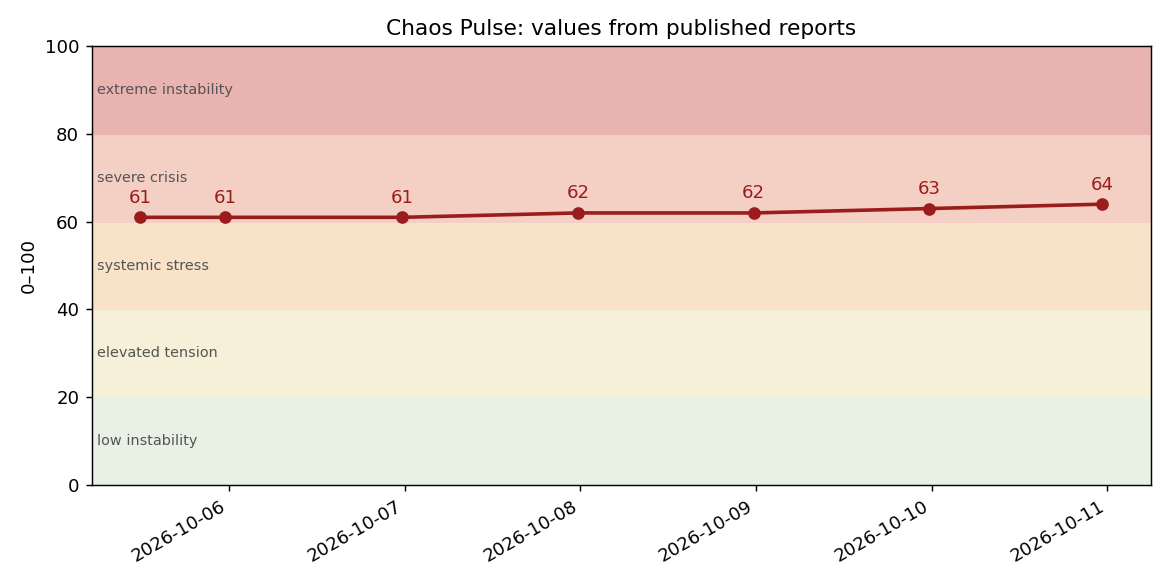
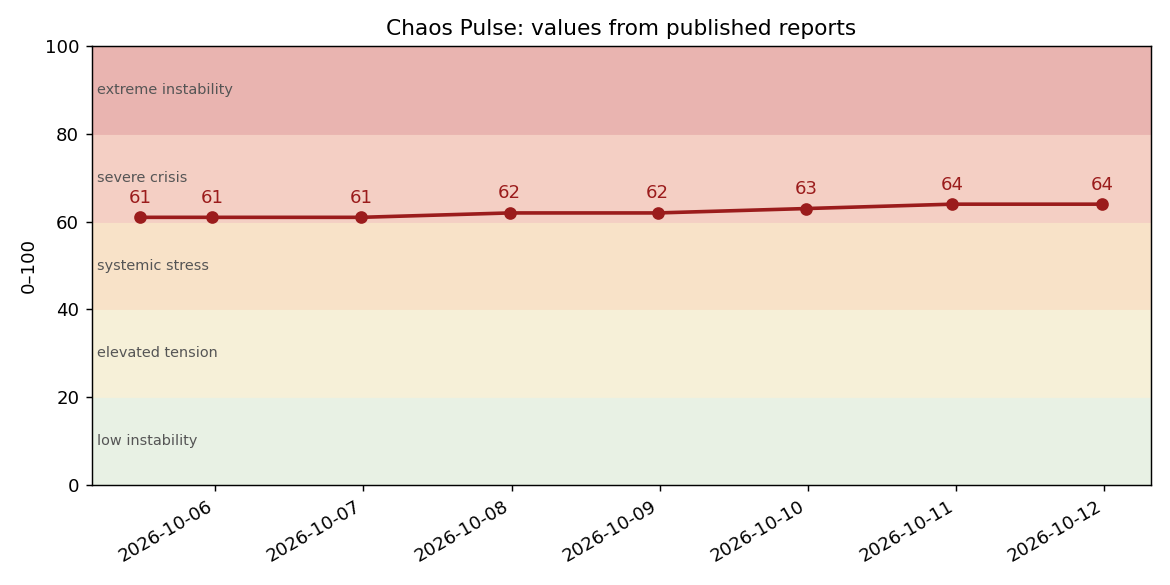
daily 2026-10-11: 64

diff --git a/data/reports/ru/2026-10-11-daily.md b/data/reports/ru/2026-10-11-daily.md
@@ -1,0 +1,87 @@
+---
+title: Пульс хаоса 64/100: ежедневный отчёт, 11 октября 2026
+date: 2026-10-11
+kind: daily
+summary: «Пульс хаоса» держится на 64/100, но механизмы сдерживания слабеют. Объявленное Трампом «энергетическое перемирие» России и Украины Москва не подтвердила, а через несколько часов Россия ударила по электростанциям в Харькове и Киеве. Иран назвал ответ США по Ормузу недостаточным и сообщил, что больше не отвечает. Удар по аэропорту Эр-Рияда 10 октября убил 12 человек и ранил 309; остановлен третий дата-центр Яндекса.
+---
+**ПУЛЬС ХАОСА: 64/100 — тяжёлый кризис**
+Изменение: 0 к предыдущему отчёту (недельный, 10 октября, 23:20 UTC); +3 за неделю (5 октября — 61).
+Направление: в целом без существенных изменений; внутри — ухудшение в сдерживании и во внутренней устойчивости. Перемирия нет.
+Уверенность: средняя. Диапазон неопределённости 59–69; самые широкие компоненты — экономика (44–60) и энергетика (68–77).
+Почему: главное событие дня — заявление президента Трампа, что Россия и Украина договорились об «энергетическом перемирии». Киев сказал, что узнал об этом из новостей и будет соблюдать при взаимности; Москва не подтвердила, а через несколько часов Россия ударила по ТЭЦ-5 в Харькове и энергообъекту в Киеве ([ABC News, 11 октября](https://abcnews.com/International/russia-strikes-power-plant-ukraine-after-trump-announces/story?id=137178264); [Kyiv Independent, 11 октября](https://kyivindependent.com/russia-struck-kharkivs-power-plant-shortly-after-trump-announced-energy-ceasefire/)). Секретарь Высшего совета нацбезопасности Ирана назвал ответ США об открытии Ормуза «недостаточным» и сказал, что Иран «больше не в процессе ответа» ([Reuters через Internazionale, 11 октября](https://www.internazionale.it/ultime-notizie-reuters/2026/10/11/iran-says-us-response-to-its-proposal-to-reopen-hormuz-was-insufficient)). Удар по аэропорту Эр-Рияда 10 октября стал самым смертоносным в арабских странах Залива с начала войны с Ираном: 12 погибших, 309 раненых. Остановлен третий дата-центр Яндекса. Сдерживание +1, внутренняя устойчивость +1; расчёт даёт 64,0.
+
+Баллы — авторская оценка относительно фиксированных ориентиров (методика v1, без изменений); у фактов ниже указаны источники. Проверки: ежедневный отчёт в 23:15 UTC (пн–сб), недельный — в воскресенье по времени Бангкока, плюс ежечасные веб-мониторы. Это не непрерывное наблюдение. Это аналитический индекс, а не вероятность войны и не доказательство какой-либо координации.
+
+| Компонент (вес) | Балл | Диапазон | Изменение | Ключевое основание |
+|---|---|---|---|---|
+| Военная эскалация (30%) | 73 | 69–77 | 0 | Удар по аэропорту Эр-Рияда уже учтён 10 октября (+1). Новое — масштаб: 12 погибших и 309 раненых по данным гражданской авиации КСА (GACA) ([Arab News, 11 октября](https://www.arabnews.com/saudi-arabia/riyadh-airport-attack-killed-12-people-and-wounded-over-300-more-says-saudi-civil-aviation-agency-3005640)), самый смертоносный удар в арабских странах Залива с начала войны с Ираном (AP); 11 октября снаряд снова попал в тот же терминал ([AP через Yahoo, 11 октября](https://www.yahoo.com/news/world/articles/missile-attack-airport-saudi-arabias-072026942.html)). Трамп: США «могут» присоединиться к ударам по хуситам; среди погибших — гражданин США. Центральное командование США: американский истребитель обездвижил сухогруз Ocean Molica в Оманском заливе при попытке прорвать блокаду Ирана (10 октября). Балл не меняю: это развитие уже учтённых событий; следующий шаг вверх — реальные удары США. |
+| Энергетика и критические поставки (25%) | 73 | 68–77 | 0 | Ормуз: предупреждение UKMTO 164-26 (11 октября) — исходящий танкер поражён снарядом, экипаж цел; ещё один танкер поражён часами раньше ([Reuters через GMA, 11 октября](https://www.gmanetwork.com/news/topstories/world/1005493/tanker-struck-by-projectile-in-strait-of-hormuz-fire-reported-ukmto-says/story); [Shafaq, 11 октября](https://shafaq.com/en/Middle-East/Unknown-projectile-hits-tanker-in-Strait-of-Hormuz)). Украина: удары по электростанциям Харькова и Киева, аварийные отключения в четырёх районах Киева ([Укринформ, 11 октября](https://www.ukrinform.net/rubric-ato/4173291-russian-forces-attack-energy-facility-in-kyiv-emergency-power-cuts-hit-four-districts.html)). Вниз: ураган «Исайяс» остановил до 63–72% добычи нефти в Мексиканском заливе, но крупные НПЗ не пострадали, а США одобрили экстренный обмен нефти из резерва. Итог — без изменения. |
+| Экономическая и финансовая устойчивость (20%) | 52 | 44–60 | 0 | Новых оснований нет. Brent закрыл неделю около $104, примерно +2% (Trading Economics, котировка CFD); UBS поднял прогноз Brent на декабрь до $100 ([exchangerates.org.uk, 11 октября](https://www.exchangerates.org.uk/news/47412/2026-10-11-brent-and-wti-crude-oil-price-forecasts-raised-as-supply-risks-persist.html)). Ждём инфляцию в США (14 октября) и доклад МВФ WEO. |
+| Внутренняя и институциональная устойчивость (15%) | 49 | 44–54 | +1 | Новое последствие: Яндекс сообщил, что его дата-центр во Владимире «полностью остановлен» после повреждения инфраструктуры атакой дронов ([Reuters через WTAQ, 11 октября](https://wtaq.com/2026/10/11/russias-yandex-says-data-centre-in-vladimir-area-shut-down-after-drone-attack/)); Yandex Cloud в «аварийном режиме» и советует клиентам задействовать планы аварийного восстановления ([3DNews, 11 октября](https://3dnews.ru/1149763/datatsentr-yandeksa-vo-vladimire-polnostyu-ostanovil-rabotu-posle-ataki-bpla)); сбои такси, платежей и музыки по России и в некоторых соседних странах ([Kyiv Independent, 11 октября](https://kyivindependent.com/third-yandex-data-center-in-russia-shut-down-following-reported-drone-attack/)). Это уже сбой массовых гражданских сервисов, а не одного объекта. Киев — на аварийных отключениях; главный аэропорт Эр-Рияда закрыт второй день. |
+| Механизмы сдерживания (10%; выше = слабее) | 61 | 56–67 | +1 | Слабее: «энергетическое перемирие» объявил только Трамп; Киев согласился условно, Москва к моменту отчёта не комментировала, удары по энергосистеме Украины продолжились через несколько часов ([BBC, 11 октября](https://www.bbc.co.uk/news/articles/c6pvg4jyz1m0o)). Иран перестал отвечать США и, по AP, предупредил об ударах по региональным дата-центрам и кабелям, если бои усилятся ([AP через US News, 11 октября](https://www.usnews.com/news/world/articles/2026-10-11/iran-calls-latest-us-response-to-proposal-insufficient-and-other-mideast-developments)). Сильнее: хуситы заявили о готовности к взаимным мерам, чтобы вывести аэропорты и порты из боёв ([CGTN, 11 октября](https://news.cgtn.com/news/2026-10-11/news-1R91QtVGJlm/p.html)); по сообщению New York Times (через [РБК-Украина](https://newsukraine.rbc.ua/news/us-offers-russia-frozen-assets-lukoil-deal-1791710888.html)), посланники США предлагали России экономические стимулы за ограниченное перемирие. |
+
+ПХ = 0,30×73 + 0,25×73 + 0,20×52 + 0,15×49 + 0,10×61 = 21,9 + 18,25 + 10,4 + 7,35 + 6,1 = 64,0 → **64**.
+Диапазон неопределённости 59–69: 0,30×69 + 0,25×68 + 0,20×44 + 0,15×44 + 0,10×56 = 58,7 → 59; 0,30×77 + 0,25×77 + 0,20×60 + 0,15×54 + 0,10×67 = 69,15 → 69.
+
+**Что опустило бы индекс (чек-лист):**
+- Военная ↓ при сделке США–Иран или перемирии в Йемене: **нет**. Иран прекратил обмен ответами; силы коалиции и хуситы продолжают бить по аэропортам друг друга.
+- Энергетика ↓, если Ормуз реально откроется и удары по энергетике России и Украины прекратятся: **нет**. Перемирие Москва не подтвердила, и оно нарушено в тот же день; поражены новые танкеры.
+- Экономика ↓, если WEO МВФ не покажет распространения: **ждём** (12–18 октября).
+- Институты ↓, если сервисы Яндекса и энергия Киева восстановятся: **нет**, оба в аварийном режиме.
+- Сдерживание ↓, если Кремль подтвердит энергоперемирие и удары прекратятся: **нет на момент отчёта**.
+
+## Сигналы
+Сбор 11 октября, 22:30 UTC: 85 показателей, 3 аномалии.
+- **GDELT «чрезвычайное положение и комендантский час»: ×6,75** (0,716% новостей против 0,106%), пятый день роста (×2,1 → 3,6 → 5,35 → 5,88 → 6,75). **«Отключения электричества» ×5,38**, **«эвакуации» ×3,21**. Машинная разметка внимания медиа; совпадает с Киевом, Эр-Риядом, Йеменом и ураганом во Флориде. Питает институты и энергетику; сам по себе балл не двигает.
+- **Официальная статус-страница Yandex Cloud:** два открытых инцидента — «недоступность зон» (22 ч) и нарушение электропитания в одной зоне доступности (96 ч). Независимое свидетельство, что сбой длится, а не устранён.
+- **Заявленные удары по нефтяным объектам России (заявления в Telegram):** 8 объектов за 7 дней при норме 6,6; 3 — 10 октября при норме 1,5. Сделает ли Украина паузу после заявления о перемирии, станет видно через день-два. Постов о дата-центрах 11 октября — 33 при норме 0–2.
+- **Киев (IODA):** 101% семидневной нормы 11 октября; генераторы и батареи скрывают отключения, провала сети не видно.
+- **Telegram:** доля постов об энергетике выше нормы в официальных иранских каналах (15% против 8%) и в медиа «оси» (10% против 5%) — совпадает с угрозами Ирана энергетике региона. Базис пока всего 6 дней.
+- **UKMTO:** номер предупреждения 164-26 на 11 октября; с 1 октября ≈1,7 выпуска в день против 0,72 раньше. Это счёт всех выпусков UKMTO, а не только атак в Ормузе.
+- IMF PortWatch по-прежнему заканчивается 4 октября; по движению через Ормуз отчёт опирается на Kpler.
+Чего сигналы не доказывают: GDELT и Википедия меряют внимание, а не решения; заявления в Telegram — не подтверждённые удары; IODA видит сети, а не людей.
+
+## 1. Главный вывод
+Индекс держится на 64, но под ровным числом слабеют тормоза. Попытка США остановить энергетическую войну декларацией провалилась в тот же день: Москва промолчала и ударила по электростанциям Харькова и Киева. Иран вышел из обмена с Вашингтоном по Ормузу и пригрозил расширить список целей до дата-центров и кабелей. Йеменский фронт стал смертоноснее: худший удар по стране Залива за всю войну, среди погибших американец — у Вашингтона появилась прямая причина вмешаться. В России крупнейшая технологическая компания потеряла три дата-центра за четыре дня.
+
+## 2. Значимые новые события
+- **«Энергетическое перемирие».** Трамп в Truth Social (11 октября): «С этого момента в войне между Россией и Украиной действует ЭНЕРГЕТИЧЕСКОЕ ПЕРЕМИРИЕ. Обе стороны согласились». Зеленский сказал Axios, что для него это «новость»; Украина готова не бить по энергетике России, если Россия сделает то же ([BBC, 11 октября](https://www.bbc.co.uk/news/articles/c6pvg4jyz1m0o)). Кремль к моменту отчёта не комментировал. После поста украинские официальные лица сообщили минимум о двух попаданиях по харьковской ТЭЦ-5 и пожаре, ударе дрона по энергообъекту Киева и аварийных отключениях ([ABC News](https://abcnews.com/International/russia-strikes-power-plant-ukraine-after-trump-announces/story?id=137178264); [Kyiv Independent](https://kyivindependent.com/russia-struck-kharkivs-power-plant-shortly-after-trump-announced-energy-ceasefire/), 11 октября). По словам Зеленского, за неделю Россия нанесла более 200 ударов по энергообъектам и 17 — по нефтегазовым (заявление стороны). Это второе такое объявление без подтверждения Москвы (первое — 14 сентября).
+- **Что на столе.** New York Times (через [Украинскую правду, 10 октября](https://www.pravda.com.ua/eng/news/2026/10/10/8057404/)): посланники США предлагали России разморозку активов, сделку вокруг Лукойла и возобновление экспорта калия из Беларуси за ограниченное перемирие в энергетике или на море (анонимные источники, одно издание). Зеленский: выборы в Украине возможны только после полного 60-дневного прекращения огня.
+- **Иран–США.** Мохсен Резаи, секретарь Высшего совета национальной безопасности Ирана: США приняли часть из семи условий Ирана для открытия Ормуза, но ответ «недостаточен», и Иран «больше не в процессе ответа» (Reuters, AP, 11 октября).
+- **Ормуз и Оманский залив.** UKMTO, 11 октября: исходящий танкер поражён неизвестным снарядом в левый борт, экипаж цел; ещё один танкер, по сообщениям, поражён часами раньше. Центральное командование США, 10 октября: американский истребитель обездвижил Ocean Molica, вышедший из иранского порта и игнорировавший предупреждения (через [Shafaq](https://shafaq.com/en/Middle-East/Unknown-projectile-hits-tanker-in-Strait-of-Hormuz)). Кто поразил танкеры, не установлено.
+- **Саудовская Аравия и хуситы.** GACA: удар 10 октября по комплексу терминалов 3–4 убил 12 человек девяти национальностей, включая гражданина США, ранены 309 ([Gulf News, 11 октября](https://gulfnews.com/world/gulf/saudi/saudi-coalition-vows-decisive-response-to-houthi-airport-attack-that-killed-12-injured-309-1.500706140)). Аэропорт оставался закрыт 11 октября ([Airways, 11 октября](https://www.airwaysmag.com/new-post/riyadh-airport-closure-extended-missile-attack)), и снаряд снова попал в тот же терминал. Коалиция во главе с КСА возлагает ответственность на хуситов, называет удар военным преступлением и обещает «решительный» ответ; по AP, хуситы взяли на себя обе атаки. Медиа хуситов сообщают об ударах коалиции по аэропорту Саны и районам у Баб-эль-Мандеба. Хуситы предупреждают авиакомпании не пользоваться саудовскими аэропортами, кроме Мекки и Медины, и одновременно заявляют о готовности к взаимным мерам, чтобы пощадить аэропорты и порты.
+- **Россия: дата-центры.** Владимир, 11 октября: Яндекс сообщил, что из-за повреждений от дронов дата-центр полностью остановлен; пострадавших нет ([РИА](https://ria.ru/20261011/rabota-2123759292.html); Reuters). Это третий за четыре дня после Сасово (8 октября) и Калуги (9 октября). 10 октября Яндекс добавил атаки дронов и ракет в форс-мажор пользовательского соглашения (Kyiv Independent). Украина официально не заявляла об ударе по Владимиру.
+- **Украина.** Запорожье, 10 октября: 23 погибших при ударе по жилому дому, по данным ГСЧС Украины ([Украинская правда, 11 октября](https://www.pravda.com.ua/eng/news/2026/10/11/8057459/)). Пригород Харькова, 11 октября: трое погибших при ударе по продуктовому магазину (губернатор через Kyiv Independent).
+- **Ураган «Исайяс».** Остановки добычи нефти в Мексиканском заливе достигали 63–72% (федеральные данные через AP и Reuters, 9 октября). Выход на берег у Дестина 10 октября ураганом 2-й категории; крупные НПЗ не пострадали; без электричества остались около 830 тыс. потребителей ([Stephen Innes, 10 октября](https://thedarksideoftheboom.substack.com/p/hurricane-isaias-batters-gulf-coast)). США одобрили экстренный обмен нефти из стратегического резерва (WDSU, 11 октября).
+
+## 3. Связи и гипотезы
+- **Перемирие декларацией.** Вашингтон объявляет, Киев соглашается условно, Москва молчит и продолжает бить. У России уже есть дизельная лицензия и, по сообщениям, предложения по активам — без принятых обязательств. Совпадение интересов (H4): слабый плюс; торг идёт между Вашингтоном и Москвой. Потеря управляемости (H5): плюс; объявление, которое другая сторона не подтверждает, подрывает доверие к самому каналу. Сознательная эскалация (H2): плюс; удары по энергетике идут в прежнем темпе.
+- **Переговоры по Ормузу встали.** Иран фиксирует частичное принятие условий, но выходит из обмена — за три недели до промежуточных выборов в США. Гипотеза (H3, не доказана): сроки — давление перед 3 ноября. Угроза Ирана дата-центрам и кабелям называет тот же класс целей, по которому уже бьют друг друга Россия и Украина: цифровая инфраструктура становится общей мишенью разных войн. Это наблюдение, а не свидетельство координации; гипотеза общей архитектуры (H1) не подтверждается.
+- **Йемен → США.** Гибель гражданина США даёт Вашингтону прямую причину действовать; AP отмечает, что вмешательство США может побудить хуситов остановить судоходство через Баб-эль-Мандеб — главный обход Ормуза. Это самая короткая видимая цепочка к новому энергетическому шоку.
+- **Рынки (H6):** ураган и выпуск резервов сглаживают цену (Brent около $104), хотя физические потери на Ближнем Востоке не уменьшились.
+
+## 4. Риск более широкой войны
+Растёт по двум линиям: США–хуситы (Трамп обещает решение «очень быстро») и Ормуз (Иран вне обмена, удары по танкерам продолжаются, США силой обеспечивают блокаду). Прямого столкновения крупных держав нет. Молдова сообщила о взрыве неизвестного дрона на своей территории (одно сообщение, детали не проверены). Учения НАТО Steadfast Noon начинаются 13 октября (плановые).
+
+## 5. Признаки деэскалации
+- Украина публично согласна прекратить удары по энергетике России при взаимности (Зеленский, 11 октября).
+- Хуситы предлагают взаимные меры, чтобы пощадить аэропорты и порты (через CGTN, 10 октября); ответа КСА нет.
+- Иран признаёт, что США приняли часть его условий; посредничество Катара формально не прекращено.
+- Ураган прошёл мимо крупных НПЗ США.
+
+## 6. Исправления
+- Проверка c27 (ураган): ожидание «частичные кратковременные остановки» — **верно**. До 72% добычи Мексиканского залива остановлено превентивно; НПЗ не пострадали.
+- Аэропорт Эр-Рияда: недельный отчёт 10 октября описал удар без числа жертв; GACA затем сообщила о 12 погибших и 309 раненых. Это уточнение того же события, повторно оно не оценивается.
+
+## 7. Что проверять дальше
+- Энергоперемирие: подтвердит ли Кремль, продолжатся ли удары по энергетике с любой стороны 12–13 октября?
+- Аэропорт Эр-Рияда: закрыт ли ещё в 00:00 UTC 12 октября (разрешает прогноз №21)?
+- США–хуситы: решение Трампа об ударах (до 17 октября).
+- Ормуз: возобновится ли обмен через Катар; удары по дата-центрам или кабелям в Заливе (до 18 октября)?
+- Яндекс: восстановятся ли облачные зоны; новые удары по дата-центрам (до 15 октября)?
+
+## 8. Источники и ограничения
+Первичные и официальные: Трамп, Truth Social (11 октября, через BBC); Зеленский, president.gov.ua (11 октября); GACA (10–11 октября, через Arab News, Gulf News); коалиция во главе с КСА (11 октября); Центральное командование США (10 октября, через Shafaq); предупреждение UKMTO 164-26 (11 октября); Яндекс и Yandex Cloud (11 октября, через РИА, Reuters); ГСЧС Украины (11 октября); статус-страница Yandex Cloud (11 октября).
+Агентства и редакции: Reuters, AP, BBC, ABC, Axios, Politico, Kyiv Independent, Украинская правда, Укринформ, The Moscow Times, 3DNews, CGTN (заявления хуситов), Airways (11 октября); ISW Iran Update (10 октября, аналитика с позицией); Stephen Innes (10 октября, рыночный комментарий).
+Только наводки: Telegram-каналы; Trading Economics (котировки CFD).
+Ограничения: Кремль к моменту отчёта не комментировал перемирие, а молчание — не отказ; данные Kpler по Ормузу после 7 октября ещё не вышли; кто поразил танкеры 10–11 октября, не установлено; рынки были закрыты на выходные, реакция Brent на события 10–11 октября неизвестна.

diff --git a/data/reports/2026-10-11-daily.md b/data/reports/2026-10-11-daily.md
@@ -1,0 +1,87 @@
+---
+title: Chaos Pulse 64/100: daily report, 11 October 2026
+date: 2026-10-11
+kind: daily
+summary: Chaos Pulse holds at 64/100, but restraint weakens. Trump's announced Russia–Ukraine "energy ceasefire" was not confirmed by Moscow, and Russia struck power plants in Kharkiv and Kyiv within hours. Iran calls the US reply on Hormuz insufficient and says it is no longer responding. The 10 October strike on Riyadh airport killed 12 and wounded 309, and a third Yandex data centre was shut down.
+---
+**CHAOS PULSE: 64/100 — severe crisis**
+Change: 0 since the previous report (weekly, 10 Oct, 23:20 UTC); +3 over the week (5 Oct: 61).
+Direction: no material change overall; underneath, restraint and internal resilience got worse. There is no ceasefire.
+Confidence: medium. Uncertainty band 59–69; widest components: economy (44–60) and energy (68–77).
+Why: the main event of the day is President Trump's claim that Russia and Ukraine agreed an "energy ceasefire". Kyiv said it learned of it from the news and would comply if Russia does; Moscow did not confirm, and within hours Russia struck the Kharkiv CHP-5 power plant and a power facility in Kyiv ([ABC News, 11 Oct](https://abcnews.com/International/russia-strikes-power-plant-ukraine-after-trump-announces/story?id=137178264); [Kyiv Independent, 11 Oct](https://kyivindependent.com/russia-struck-kharkivs-power-plant-shortly-after-trump-announced-energy-ceasefire/)). Iran's security chief called the US reply on reopening Hormuz "insufficient" and said Iran is "no longer in the process of responding" ([Reuters via Internazionale, 11 Oct](https://www.internazionale.it/ultime-notizie-reuters/2026/10/11/iran-says-us-response-to-its-proposal-to-reopen-hormuz-was-insufficient)). The 10 October strike on Riyadh airport was the deadliest attack on a Gulf Arab state since the Iran war began: 12 killed, 309 injured. A third Yandex data centre was shut down. Restraint +1, internal resilience +1; the index computes to 64.0.
+
+Scores are the author's judgement against fixed anchors (method v1, unchanged); facts carry sources below. Checks: a daily report at 23:15 UTC (Mon–Sat), a weekly one on Sunday (Bangkok time), plus hourly web monitors. This is not continuous watching. This is an analytical index, not a probability of war and not proof of any coordination.
+
+| Component (weight) | Score | Range | Change | Key reason |
+|---|---|---|---|---|
+| 1. Military escalation (30%) | 73 | 69–77 | 0 | The Riyadh airport strike was already counted on 10 Oct (+1). New is its scale: 12 dead and 309 injured, per Saudi civil aviation authority GACA ([Arab News, 11 Oct](https://www.arabnews.com/saudi-arabia/riyadh-airport-attack-killed-12-people-and-wounded-over-300-more-says-saudi-civil-aviation-agency-3005640)), the deadliest in a Gulf Arab state since the Iran war began (AP); on 11 Oct a projectile hit the same terminal again ([AP via Yahoo, 11 Oct](https://www.yahoo.com/news/world/articles/missile-attack-airport-saudi-arabias-072026942.html)). Trump says the US "may" join strikes on the Houthis; a US citizen was among the dead. US Central Command says a US jet disabled the cargo ship Ocean Molica in the Gulf of Oman as it tried to breach the blockade of Iran (10 Oct). No score change: these are developments of events already counted; the next step up would be actual US strikes. |
+| 2. Energy and supplies (25%) | 73 | 68–77 | 0 | Hormuz: UKMTO warning 164-26 (11 Oct), an outbound tanker hit by a projectile, crew safe; another tanker hit hours earlier ([Reuters via GMA, 11 Oct](https://www.gmanetwork.com/news/topstories/world/1005493/tanker-struck-by-projectile-in-strait-of-hormuz-fire-reported-ukmto-says/story); [Shafaq, 11 Oct](https://shafaq.com/en/Middle-East/Unknown-projectile-hits-tanker-in-Strait-of-Hormuz)). Ukraine: strikes on power plants in Kharkiv and Kyiv; emergency outages in four Kyiv districts ([Ukrinform, 11 Oct](https://www.ukrinform.net/rubric-ato/4173291-russian-forces-attack-energy-facility-in-kyiv-emergency-power-cuts-hit-four-districts.html)). Down: Hurricane Isaias shut in up to 63–72% of Gulf of Mexico oil output but spared the major refineries, and the US approved an emergency crude exchange from its reserve. Net: unchanged. |
+| 3. Economy and finance (20%) | 52 | 44–60 | 0 | No new grounds. Brent closed the week near $104, up about 2% (Trading Economics, a CFD quote); UBS raised its December Brent forecast to $100 ([exchangerates.org.uk, 11 Oct](https://www.exchangerates.org.uk/news/47412/2026-10-11-brent-and-wti-crude-oil-price-forecasts-raised-as-supply-risks-persist.html)). Waiting for US CPI (14 Oct) and the IMF WEO. |
+| 4. Internal resilience (15%) | 49 | 44–54 | +1 | A new consequence: Yandex says its Vladimir data centre was "completely shut down" after a drone attack damaged its infrastructure ([Reuters via WTAQ, 11 Oct](https://wtaq.com/2026/10/11/russias-yandex-says-data-centre-in-vladimir-area-shut-down-after-drone-attack/)); Yandex Cloud is in "emergency mode" and advises clients to switch to disaster-recovery plans ([3DNews, 11 Oct](https://3dnews.ru/1149763/datatsentr-yandeksa-vo-vladimire-polnostyu-ostanovil-rabotu-posle-ataki-bpla)); taxi, payments and music services failed across Russia and some neighbouring countries ([Kyiv Independent, 11 Oct](https://kyivindependent.com/third-yandex-data-center-in-russia-shut-down-following-reported-drone-attack/)). This is now a failure of mass civilian services, not of one site. Kyiv is on emergency outages; Riyadh's main airport is closed for a second day. |
+| 5. Restraint (10%; higher = weaker) | 61 | 56–67 | +1 | Weaker: the "energy ceasefire" was announced only by Trump; Kyiv agreed conditionally, Moscow had not commented by report time, and strikes on Ukraine's grid continued within hours ([BBC, 11 Oct](https://www.bbc.co.uk/news/articles/c6pvg4jyz1m0o)). Iran stopped responding to the US and, per AP, warned of attacks on regional data centres and cables if fighting intensifies ([AP via US News, 11 Oct](https://www.usnews.com/news/world/articles/2026-10-11/iran-calls-latest-us-response-to-proposal-insufficient-and-other-mideast-developments)). Stronger: the Houthis said they are ready for reciprocal measures to keep airports and ports out of the fighting ([CGTN, 11 Oct](https://news.cgtn.com/news/2026-10-11/news-1R91QtVGJlm/p.html)); per a New York Times report (via [RBC-Ukraine](https://newsukraine.rbc.ua/news/us-offers-russia-frozen-assets-lukoil-deal-1791710888.html)), US envoys offered Russia economic incentives for a limited ceasefire. |
+
+Chaos Pulse = 0.30×73 + 0.25×73 + 0.20×52 + 0.15×49 + 0.10×61 = 21.9 + 18.25 + 10.4 + 7.35 + 6.1 = 64.0 → **64**.
+Band: 0.30×69 + 0.25×68 + 0.20×44 + 0.15×44 + 0.10×56 = 58.7 → 59; 0.30×77 + 0.25×77 + 0.20×60 + 0.15×54 + 0.10×67 = 69.15 → 69.
+
+**What would bring the index down (checklist):**
+- Military ↓ on a US–Iran deal or a Yemen truce: **no**. Iran stopped its exchange of replies; Saudi-led and Houthi forces keep striking each other's airports.
+- Energy ↓ if Hormuz really reopens and Russia–Ukraine energy strikes stop: **no**. The truce is unconfirmed by Moscow and was broken the same day; more tankers were hit.
+- Economy ↓ if the IMF WEO shows no spillover: **waiting** (12–18 Oct).
+- Institutions ↓ if Yandex services and Kyiv's power recover: **no**, both are in emergency mode.
+- Restraint ↓ if the Kremlin confirms the energy truce and strikes stop: **not at report time**.
+
+## Signals
+Collected 11 Oct, 22:30 UTC: 85 indicators, 3 anomalies.
+- **GDELT "states of emergency and curfews": ×6.75** (0.716% of news vs 0.106%), the fifth day of growth (×2.1 → 3.6 → 5.35 → 5.88 → 6.75). **"Power outages" ×5.38**, **"evacuations" ×3.21**. Machine-tagged media attention; matches Kyiv, Riyadh, Yemen and the Florida hurricane. Feeds institutions and energy; does not move a score by itself.
+- **Yandex Cloud's official status page:** two open incidents, "zones unavailable" (22 h) and a power disruption in one availability zone (96 h). Independent evidence the outage is lasting, not fixed.
+- **Claimed strikes on Russian oil sites (Telegram claims):** 8 sites in 7 days vs a norm of 6.6; 3 on 10 Oct vs 1.5. Whether Ukraine pauses after the truce claim will show in a day or two. Posts about data centres on 11 Oct: 33, against a norm of 0–2.
+- **Kyiv (IODA):** 101% of its 7-day norm on 11 Oct; generators and batteries hide outages, no network dip visible.
+- **Telegram:** the share of energy posts is above norm in official Iranian channels (15% vs 8%) and "axis" media (10% vs 5%), matching Iran's threats to regional energy. The baseline is still only 6 days.
+- **UKMTO:** warning number 164-26 on 11 Oct; since 1 Oct about 1.7 products a day vs 0.72 before. This counts all UKMTO products, not only Hormuz attacks.
+- IMF PortWatch still ends on 4 Oct; for Hormuz traffic this report relies on Kpler.
+What the signals do not prove: GDELT and Wikipedia measure attention, not decisions; Telegram claims are not confirmed strikes; IODA sees networks, not people.
+
+## 1. Main finding
+The index holds at 64, but under the flat number the brakes are weakening. A US attempt to stop the energy war by declaration failed the same day: Moscow stayed silent and struck power plants in Kharkiv and Kyiv. Iran stepped out of its exchange with Washington over Hormuz and threatened to widen its target list to data centres and cables. The Yemen front turned deadlier, with the worst attack on a Gulf state in the whole war and an American among the dead, which gives Washington a direct reason to intervene. In Russia, the largest tech company has lost three data centres in four days.
+
+## 2. Significant new events
+- **The "energy ceasefire".** Trump on Truth Social (11 Oct): "Effective immediately, there is an ENERGY CEASEFIRE in the War between Russia and Ukraine. Both parties have agreed." Zelensky told Axios it was "news" to him; Ukraine is ready not to strike Russian energy if Russia does the same ([BBC, 11 Oct](https://www.bbc.co.uk/news/articles/c6pvg4jyz1m0o)). The Kremlin had not commented by report time. After the post, Ukrainian officials reported at least two hits on Kharkiv's CHP-5 and a fire, a drone strike on a Kyiv power facility and emergency outages ([ABC News](https://abcnews.com/International/russia-strikes-power-plant-ukraine-after-trump-announces/story?id=137178264); [Kyiv Independent](https://kyivindependent.com/russia-struck-kharkivs-power-plant-shortly-after-trump-announced-energy-ceasefire/), 11 Oct). Zelensky says Russia carried out more than 200 strikes on power facilities and 17 on oil and gas sites in a week (a party's claim). It is the second such announcement without Moscow's confirmation (the first was on 14 Sep).
+- **What is on the table.** The New York Times (via [Ukrainska Pravda, 10 Oct](https://www.pravda.com.ua/eng/news/2026/10/10/8057404/)): US envoys offered Russia unfrozen assets, a Lukoil-related deal and resumed Belarusian potash exports for a limited energy or maritime ceasefire (anonymous sources, one outlet). Zelensky says Ukraine could hold elections only after a full 60-day ceasefire.
+- **Iran–US.** Mohsen Rezaei, secretary of Iran's Supreme National Security Council: the US accepted some of Iran's seven conditions for reopening Hormuz but the reply is "insufficient", and Iran is "no longer in the process of responding" (Reuters, AP, 11 Oct).
+- **Hormuz and the Gulf of Oman.** UKMTO, 11 Oct: an outbound tanker struck on the port side by an unknown projectile, crew safe; another tanker reported hit hours earlier. US Central Command, 10 Oct: a US jet disabled the Ocean Molica after it left an Iranian port and ignored warnings (via [Shafaq](https://shafaq.com/en/Middle-East/Unknown-projectile-hits-tanker-in-Strait-of-Hormuz)). Attribution of the tanker strikes is not established.
+- **Saudi Arabia and the Houthis.** GACA: the 10 Oct strike on the terminal 3–4 complex killed 12 people of nine nationalities, including a US citizen, and injured 309 ([Gulf News, 11 Oct](https://gulfnews.com/world/gulf/saudi/saudi-coalition-vows-decisive-response-to-houthi-airport-attack-that-killed-12-injured-309-1.500706140)). The airport stayed closed on 11 Oct ([Airways, 11 Oct](https://www.airwaysmag.com/new-post/riyadh-airport-closure-extended-missile-attack)), and a projectile hit the same terminal again. The Saudi-led coalition blames the Houthis, calls the strike a war crime and promises a "decisive" response; per AP the Houthis claimed both attacks. Houthi media report Saudi-led strikes on Sanaa airport and areas near Bab el-Mandeb. The Houthis warn airlines away from Saudi airports except Mecca and Medina, while saying they are ready for reciprocal measures to spare airports and ports.
+- **Russia: data centres.** Vladimir, 11 Oct: Yandex says drone damage forced a complete shutdown of its data centre; no injuries ([RIA](https://ria.ru/20261011/rabota-2123759292.html); Reuters). The third in four days after Sasovo (8 Oct) and Kaluga (9 Oct). On 10 Oct Yandex added drone and missile attacks to force majeure in its user terms (Kyiv Independent). Ukraine has not officially claimed the Vladimir strike.
+- **Ukraine.** Zaporizhzhia, 10 Oct: 23 killed in a strike on an apartment building, per Ukraine's emergency service ([Ukrainska Pravda, 11 Oct](https://www.pravda.com.ua/eng/news/2026/10/11/8057459/)). Kharkiv suburbs, 11 Oct: three killed in a strike on a grocery store (regional governor via Kyiv Independent).
+- **Hurricane Isaias.** Gulf of Mexico oil shut-ins peaked at 63–72% (federal data via AP and Reuters, 9 Oct). Landfall near Destin on 10 Oct as a Category 2 storm; the major refineries were spared; about 830,000 customers lost power ([Stephen Innes, 10 Oct](https://thedarksideoftheboom.substack.com/p/hurricane-isaias-batters-gulf-coast)). The US approved an emergency crude exchange from the strategic reserve (WDSU, 11 Oct).
+
+## 3. Links and hypotheses
+- **Ceasefire by declaration.** Washington announces, Kyiv agrees conditionally, Moscow stays silent and keeps striking. Russia already has a diesel licence and reported offers on assets without taking on obligations. Coinciding interests (H4): weak plus; the bargaining runs between Washington and Moscow. Loss of control (H5): plus; an announcement the other side does not confirm erodes trust in the channel itself. Deliberate escalation (H2): plus; strikes on energy continue at their previous pace.
+- **Hormuz talks stall.** Iran records partial acceptance but steps out of the exchange, three weeks before the US midterms. Hypothesis (H3, unproven): the timing is pressure ahead of 3 Nov. Iran's threat to data centres and cables names the same class of targets that Russia and Ukraine already hit: digital infrastructure is becoming a shared target across wars. That is an observation, not evidence of coordination; the common-design hypothesis (H1) is not supported.
+- **Yemen → US.** A US citizen's death gives Washington a direct reason to act; AP notes that US intervention could prompt the Houthis to halt shipping through Bab el-Mandeb, the main Hormuz bypass. This is the shortest visible chain to a new energy shock.
+- **Markets (H6):** the hurricane and reserve releases smooth the price (Brent near $104) while Middle East physical losses have not shrunk.
+
+## 4. Risk of wider war
+Rising along two lines: US–Houthi (Trump says a decision will come "very quickly") and Hormuz (Iran out of the exchange, tanker strikes continuing, the US enforcing its blockade by force). No direct clash between major powers. Moldova reported an unidentified drone exploding on its territory (one report, details unverified). NATO's Steadfast Noon exercise starts 13 Oct (scheduled).
+
+## 5. Signs of de-escalation
+- Ukraine publicly agrees to stop strikes on Russian energy if Russia reciprocates (Zelensky, 11 Oct).
+- The Houthis offer reciprocal measures to spare airports and ports (via CGTN, 10 Oct); no Saudi reply.
+- Iran acknowledges the US accepted some of its conditions; Qatari mediation has not formally ended.
+- The hurricane missed the major US refineries.
+
+## 6. Corrections
+- Check c27 (hurricane): expected "partial, short shutdowns": **right**. Up to 72% of Gulf of Mexico output was shut in as a precaution; refineries were not hit.
+- Riyadh airport: the weekly report of 10 Oct described the strike without a toll; GACA has since reported 12 dead and 309 injured. This is an update of the same event and is not scored again.
+
+## 7. What to check next
+- Energy truce: does the Kremlin confirm, and do strikes on energy continue on either side on 12–13 Oct?
+- Riyadh airport: is it still closed at 00:00 UTC on 12 Oct (resolves forecast #21)?
+- US–Houthi: Trump's decision on strikes (by 17 Oct).
+- Hormuz: does the exchange via Qatar resume; any strikes on data centres or cables in the Gulf (by 18 Oct)?
+- Yandex: do the cloud zones recover; any new strikes on data centres (by 15 Oct)?
+
+## 8. Sources and limits
+Primary and official: Trump, Truth Social (11 Oct, via BBC); Zelensky, president.gov.ua (11 Oct); GACA (10–11 Oct, via Arab News, Gulf News); the Saudi-led coalition (11 Oct); US Central Command (10 Oct, via Shafaq); UKMTO warning 164-26 (11 Oct); Yandex and Yandex Cloud (11 Oct, via RIA, Reuters); Ukraine's State Emergency Service (11 Oct); the Yandex Cloud status page (11 Oct).
+Agencies and newsrooms: Reuters, AP, BBC, ABC, Axios, Politico, Kyiv Independent, Ukrainska Pravda, Ukrinform, The Moscow Times, 3DNews, CGTN (for Houthi statements), Airways (11 Oct); ISW Iran Update (10 Oct, analysis with a viewpoint); Stephen Innes (10 Oct, market commentary).
+Leads only: Telegram channels; Trading Economics (CFD quotes).
+Limits: the Kremlin had not commented on the truce at report time, and silence is not refusal; Kpler's Hormuz data after 7 Oct are not out yet; the tanker strikes of 10–11 Oct are not attributed; markets were closed for the weekend, so Brent's reaction to 10–11 Oct is unknown.
